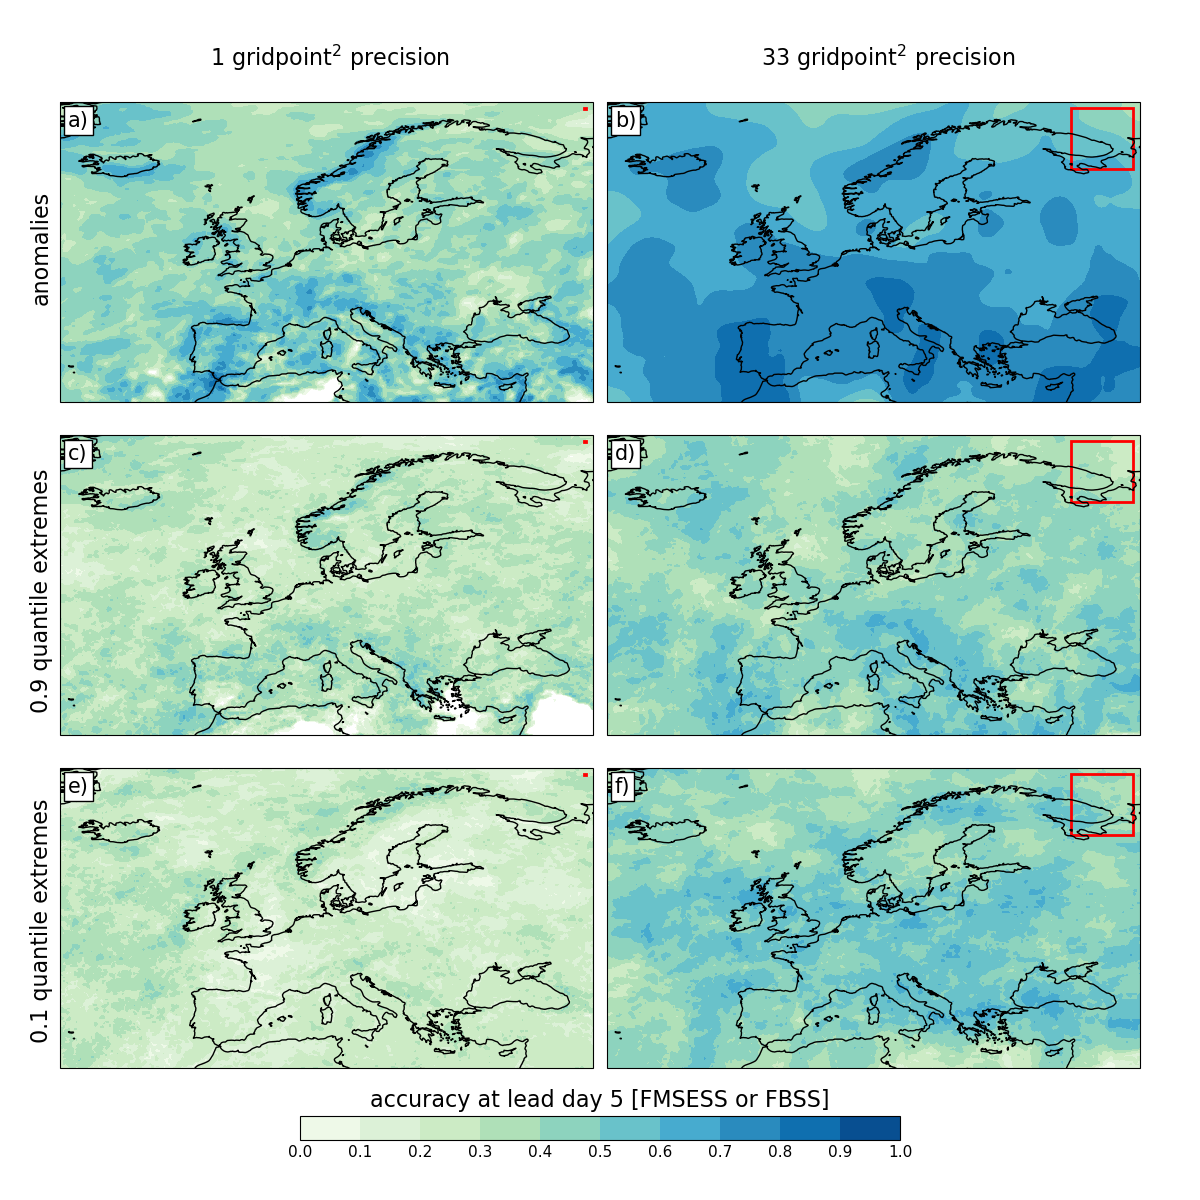
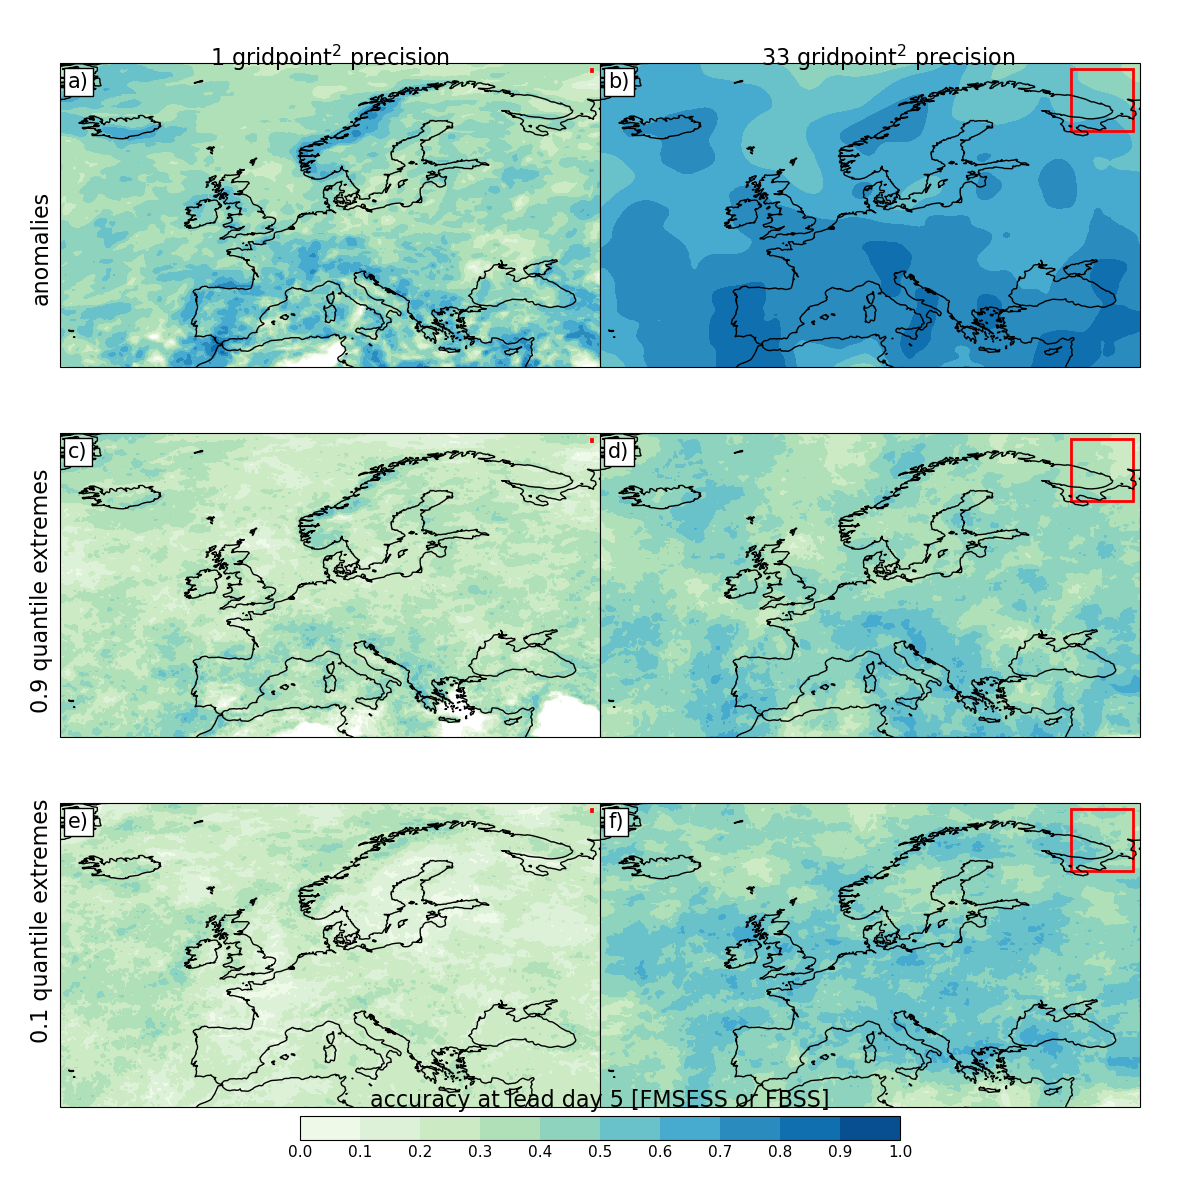
update

diff --git a/code/plot/plot-fig-02.py b/code/plot/plot-fig-02.py
@@ -64,7 +64,8 @@ figsize    = np.array([12,12])
 fig,ax     = plt.subplots(nrows=3,ncols=2,figsize=(figsize[0],figsize[1]),subplot_kw={'projection': ccrs.PlateCarree(central_longitude=0.0)})
 ax         = ax.ravel()
 
-fig.subplots_adjust(right=0.95, left=0.05,top=0.975,bottom=0.05,hspace=-0.25,wspace=0.025)
+#fig.subplots_adjust(right=0.95, left=0.05,top=0.975,bottom=0.05,hspace=-0.25,wspace=0.025)
+fig.subplots_adjust(right=0.95, left=0.05,top=0.975,bottom=0.05,hspace=0,wspace=0)
 
 setup_subplot_xy(1, ax[0], 'a)', ds1, clevs, cmap, fontsize)
 setup_subplot_xy(2, ax[1], 'b)', ds2, clevs, cmap, fontsize)
